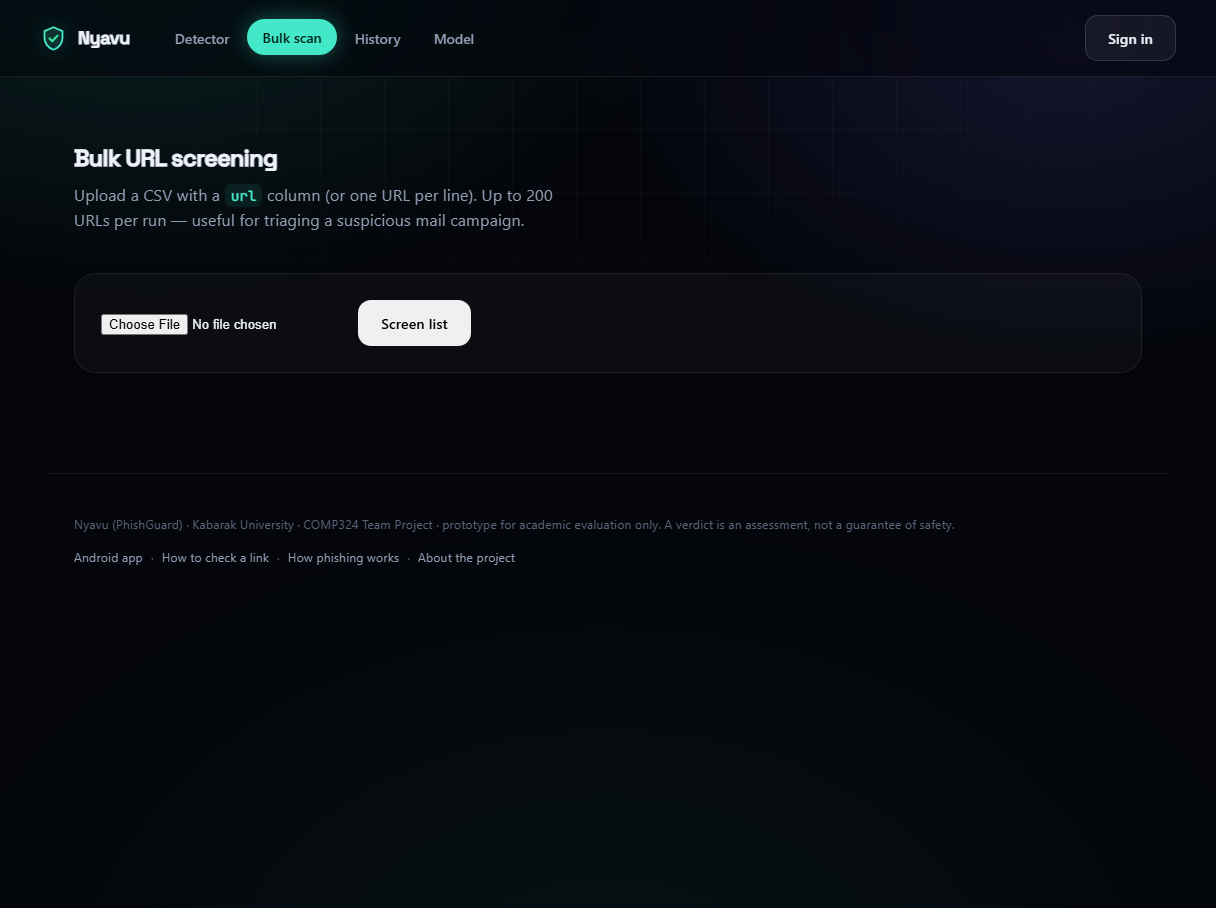
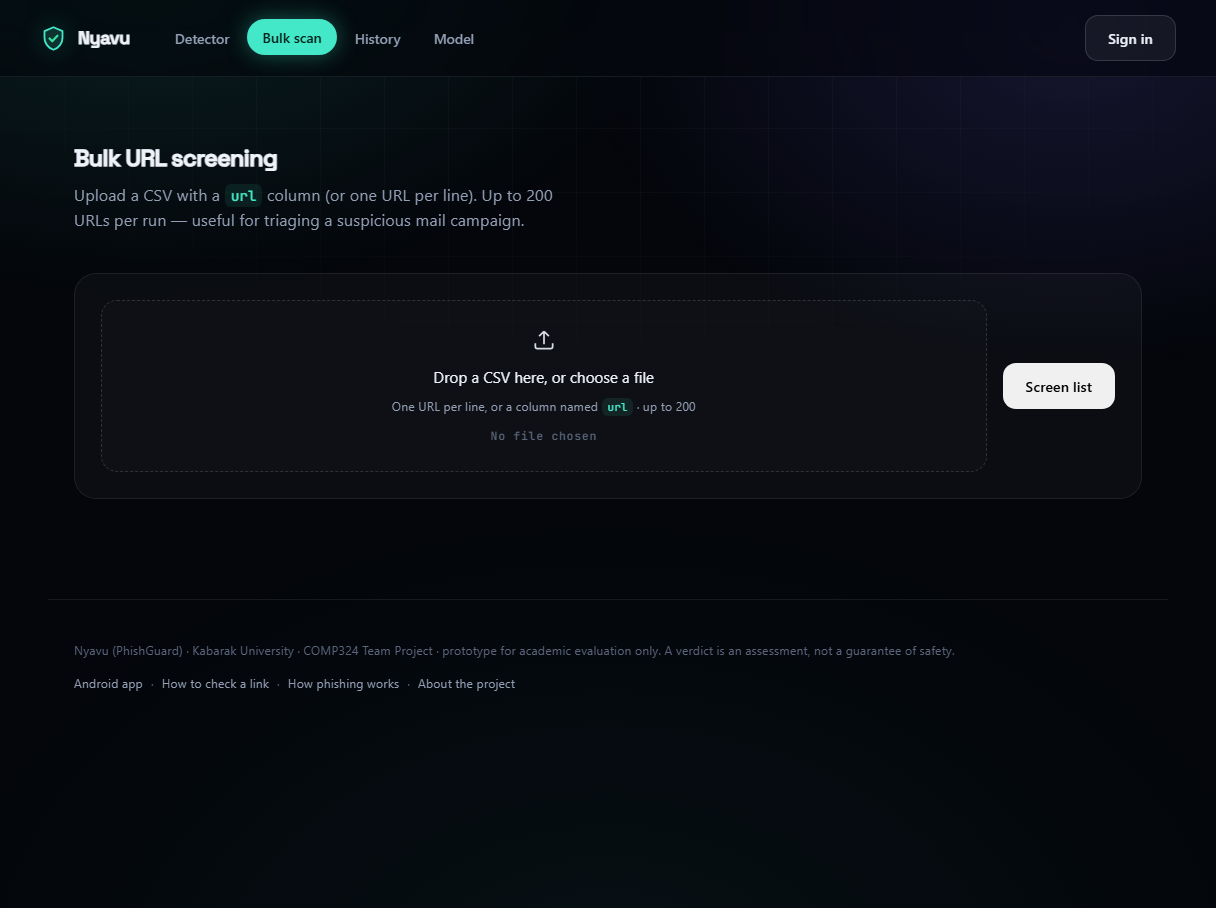
The bulk scan stops looking like a file input
- a drop zone replaces the browser's default control: upload mark, 'Drop a CSV here, or
  choose a file', the accepted formats, and the chosen filename in place of 'No file
  chosen'
- drag and drop works, with the border and background responding as you hover
- the hidden input keeps native behaviour for click and keyboard

All three secondary views now share the detector's language: history has an empty state
with character, the model view carries the F1 bars and comparison table, and bulk is a
drop target rather than a form control.

diff --git a/app/static/styles.css b/app/static/styles.css
@@ -4277,3 +4277,53 @@ body.verdict-open { overflow: hidden; }
 /* the populated table gets a little more air */
 .table td, .table th { padding: 12px 14px; }
 .table tbody tr:hover { background: rgba(255, 255, 255, .025); }
+
+/* ===================== the bulk drop zone ===================== */
+.bulk-form {
+  display: flex;
+  align-items: center;
+  gap: 16px;
+  flex-wrap: wrap;
+}
+
+.dropzone {
+  flex: 1 1 420px;
+  display: grid;
+  justify-items: center;
+  gap: 6px;
+  padding: 26px 22px;
+  border: 1.5px dashed var(--line-hi);
+  border-radius: 16px;
+  background: rgba(255, 255, 255, .014);
+  text-align: center;
+  cursor: pointer;
+  transition: border-color .25s ease, background .25s ease, transform .25s ease;
+}
+
+.dropzone:hover { border-color: rgba(67, 232, 200, .45); background: rgba(67, 232, 200, .03); }
+.dropzone.over {
+  border-color: var(--mint);
+  background: rgba(67, 232, 200, .07);
+  transform: translateY(-1px);
+}
+
+.dropzone input[type="file"] {
+  position: absolute;
+  width: 1px; height: 1px;
+  opacity: 0;
+  pointer-events: none;
+}
+
+.drop-mark { color: var(--mint); opacity: .9; }
+.drop-mark svg { width: 26px; height: 26px; }
+.drop-title { font-size: 0.95rem; color: var(--ink); }
+.drop-hint { font-size: 0.78rem; color: var(--muted); }
+.drop-file {
+  margin-top: 4px;
+  font-family: var(--font-mono);
+  font-size: 0.72rem;
+  letter-spacing: .06em;
+  color: var(--faint);
+}
+.dropzone.has-file .drop-file { color: var(--mint); }
+.dropzone.has-file { border-style: solid; }

diff --git a/app/static/app.js b/app/static/app.js
@@ -1277,6 +1277,39 @@
   }
 
   /* --------------------------------------------------------------- history */
+
+  /* The drop zone: a file input that can also be dropped onto, with the chosen name
+     shown in place of the browser's default control. */
+  (function wireBulkDrop() {
+    const drop = document.getElementById("bulkDrop");
+    const input = document.getElementById("bulkFile");
+    const name = document.getElementById("bulkFileName");
+    if (!drop || !input) return;
+
+    const show = () => {
+      const f = input.files && input.files[0];
+      if (name) name.textContent = f ? f.name : "No file chosen";
+      drop.classList.toggle("has-file", !!f);
+    };
+
+    input.addEventListener("change", show);
+
+    ["dragenter", "dragover"].forEach((evt) =>
+      drop.addEventListener(evt, (e) => { e.preventDefault(); drop.classList.add("over"); }));
+
+    ["dragleave", "drop"].forEach((evt) =>
+      drop.addEventListener(evt, (e) => { e.preventDefault(); drop.classList.remove("over"); }));
+
+    drop.addEventListener("drop", (e) => {
+      const files = e.dataTransfer && e.dataTransfer.files;
+      if (!files || !files.length) return;
+      const dt = new DataTransfer();
+      dt.items.add(files[0]);
+      input.files = dt.files;
+      show();
+    });
+  })();
+
   async function loadHistory() {
     const tbody = $("#historyTable tbody");
     const empty = $("#historyEmpty");

diff --git a/app/static/index.html b/app/static/index.html
@@ -159,8 +159,19 @@
       <p class="lede">Upload a CSV with a <code>url</code> column (or one URL per line).
         Up to 200 URLs per run — useful for triaging a suspicious mail campaign.</p>
     </div>
-    <form id="bulkForm" class="panel">
-      <input type="file" id="bulkFile" accept=".csv,.txt" required />
+    <form id="bulkForm" class="panel bulk-form">
+      <label class="dropzone" id="bulkDrop" for="bulkFile">
+        <input type="file" id="bulkFile" accept=".csv,.txt" required />
+        <span class="drop-mark" aria-hidden="true">
+          <svg viewBox="0 0 24 24" fill="none" stroke="currentColor" stroke-width="1.6">
+            <path d="M12 16V4m0 0L7.5 8.5M12 4l4.5 4.5"/>
+            <path d="M4 15v3a2 2 0 0 0 2 2h12a2 2 0 0 0 2-2v-3"/>
+          </svg>
+        </span>
+        <span class="drop-title">Drop a CSV here, or choose a file</span>
+        <span class="drop-hint">One URL per line, or a column named <code>url</code> · up to 200</span>
+        <span class="drop-file" id="bulkFileName">No file chosen</span>
+      </label>
       <button class="btn primary" type="submit">Screen list</button>
     </form>
     <div id="bulkResult" class="panel hidden"></div>
